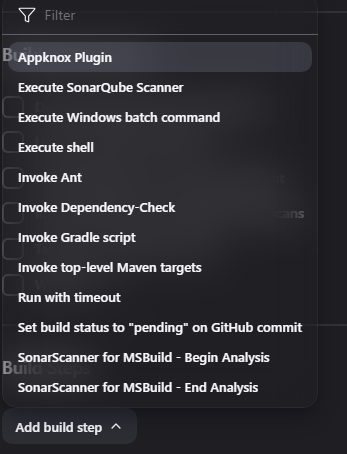
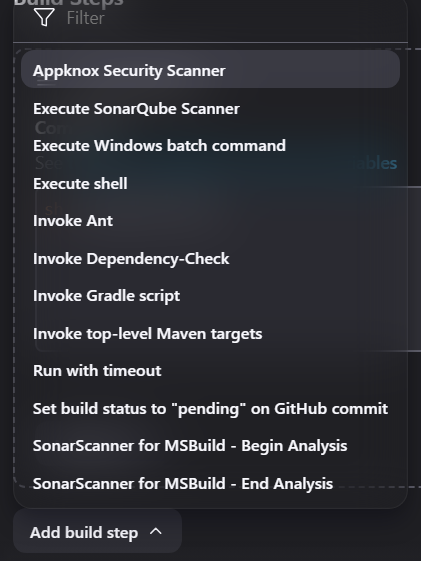
Update: refactor cicheck output and jelly file name

diff --git a/src/main/resources/io/jenkins/plugins/AppknoxPlugin/help-riskThreshold.html b/src/main/resources/io/jenkins/plugins/AppknoxPlugin/help-riskThreshold.html
@@ -1,0 +1,3 @@
+<div>
+    Select the risk threshold for the scan. Options are LOW, MEDIUM, HIGH, and CRITICAL.
+</div>

diff --git a/src/main/java/io/jenkins/plugins/AppknoxPlugin.java b/src/main/java/io/jenkins/plugins/AppknoxPlugin.java
@@ -60,6 +60,7 @@ public class AppknoxPlugin extends Builder implements SimpleBuildStep {
     private final String filePath;
     private final String riskThreshold;
     private static final String binaryVersion = "1.3.1";
+    private static final String osName = System.getProperty("os.name").toLowerCase();
     private static final String CLI_DOWNLOAD_PATH = System.getProperty("user.home") + File.separator + "appknox";
 
     @DataBoundConstructor
@@ -84,35 +85,44 @@ public class AppknoxPlugin extends Builder implements SimpleBuildStep {
     @Override
     public void perform(Run<?, ?> run, FilePath workspace, Launcher launcher, TaskListener listener)
             throws InterruptedException, IOException {
-        boolean success = executeAppknoxCommands(run, workspace, launcher, listener);
+        // report name will create a report in artifact with name specified
+        String reportName = "summary-report.csv";
+        boolean success = executeAppknoxCommands(run, workspace, reportName, launcher, listener);
 
         if (success) {
-            archiveArtifact(run, workspace, launcher, listener);
+            archiveArtifact(run, workspace, reportName, launcher, listener);
         } else {
             run.setResult(Result.FAILURE);
         }
     }
 
-    private boolean executeAppknoxCommands(Run<?, ?> run, FilePath workspace, Launcher launcher,
+    private boolean executeAppknoxCommands(Run<?, ?> run, FilePath workspace, String reportName, Launcher launcher,
             TaskListener listener) {
         try {
-            String os = System.getProperty("os.name").toLowerCase();
-            String appknoxPath = downloadAndInstallAppknox(os, listener);
-            String uploadOutput = uploadFile(appknoxPath, listener);
+            String accessToken = getAccessToken(listener);
+            if (accessToken == null) {
+                return false;
+            }
+
+            Map<String, String> env = new HashMap<>(System.getenv());
+            env.put("APPKNOX_ACCESS_TOKEN", accessToken);
+            
+            String appknoxPath = downloadAndInstallAppknox(osName, listener);
+            String uploadOutput = uploadFile(appknoxPath, listener, env);
             String fileID = extractFileID(uploadOutput, listener);
             if (fileID == null) {
                 return false;
             }
 
-            runCICheck(appknoxPath, run, fileID, listener);
+            runCICheck(appknoxPath, run, fileID, listener, env);
 
-            String reportOutput = createReport(appknoxPath, fileID, listener);
+            String reportOutput = createReport(appknoxPath, fileID, listener, env);
             String reportID = extractReportID(reportOutput, listener);
             if (reportID == null) {
                 return false;
             }
 
-            downloadReportSummaryCSV(appknoxPath, reportID, run, workspace, listener);
+            downloadReportSummaryCSV(appknoxPath, reportName, reportID, run, workspace, listener, env);
         } catch (Exception e) {
             listener.getLogger().println("Error executing Appknox commands: " + e.getMessage());
             return false;
@@ -203,47 +213,45 @@ public class AppknoxPlugin extends Builder implements SimpleBuildStep {
         String existingPath = System.getenv("PATH");
         String newPath = path + File.pathSeparator + existingPath;
         System.setProperty("PATH", newPath);
-        listener.getLogger().println("Updated PATH: " + newPath);
     }
 
-    private String uploadFile(String appknoxPath, TaskListener listener) throws IOException, InterruptedException {
+    private String uploadFile(String appknoxPath, TaskListener listener, Map<String, String> env) throws IOException, InterruptedException {
         String accessToken = getAccessToken(listener);
         if (accessToken == null) {
             return null;
         }
-
         List<String> command = new ArrayList<>();
         command.add(appknoxPath);
         command.add("upload");
         command.add(filePath);
-        command.add("--access-token");
-        command.add(accessToken);
-
+    
         ProcessBuilder pb = new ProcessBuilder(command);
+        pb.environment().putAll(env);
         pb.redirectErrorStream(true);
         Process process = pb.start();
-
+    
         try (BufferedReader reader = new BufferedReader(
                 new InputStreamReader(process.getInputStream(), StandardCharsets.UTF_8))) {
-            StringBuilder output = new StringBuilder();
             String line;
+            String lastLine = null;
             while ((line = reader.readLine()) != null) {
-                output.append(line).append("\n");
+                lastLine = line;
             }
-
-            listener.getLogger().println("Upload Output:");
-            listener.getLogger().println(output.toString());
-
-            if (process.exitValue() == 0) {
-                return output.toString().trim();
+    
+            if (lastLine != null) {
+                listener.getLogger().println("Upload Command Output :");
+                listener.getLogger().println("File ID = " + lastLine.trim());
+                return lastLine.trim();
             } else {
-                listener.getLogger().println("Upload failed.");
+                listener.getLogger().println("Upload failed: No output received.");
                 return null;
             }
+        } finally {
+            process.waitFor();
         }
     }
 
-    private boolean runCICheck(String appknoxPath, Run<?, ?> run, String fileID, TaskListener listener)
+    private boolean runCICheck(String appknoxPath, Run<?, ?> run, String fileID, TaskListener listener, Map<String, String> env)
             throws IOException, InterruptedException {
         String accessToken = getAccessToken(listener);
         if (accessToken == null) {
@@ -254,12 +262,11 @@ public class AppknoxPlugin extends Builder implements SimpleBuildStep {
         command.add(appknoxPath);
         command.add("cicheck");
         command.add(fileID);
-        command.add("--access-token");
-        command.add(accessToken);
         command.add("--risk-threshold");
         command.add(riskThreshold);
 
         ProcessBuilder pb = new ProcessBuilder(command);
+        pb.environment().putAll(env);
         pb.redirectErrorStream(true);
         Process process = pb.start();
 
@@ -271,8 +278,8 @@ public class AppknoxPlugin extends Builder implements SimpleBuildStep {
 
             while ((line = reader.readLine()) != null) {
                 if (!foundStarted) {
-                    // Skip lines until "Found" is encountered
-                    if (line.contains("Found")) {
+                    // Skip lines until "Found" or "No" is encountered
+                    if (line.contains("Found") || line.contains("No")) {
                         output.append(line).append("\n");
                         run.setDescription(output.toString() + "Check Console Output for more details.");
                         foundStarted = true;
@@ -284,17 +291,17 @@ public class AppknoxPlugin extends Builder implements SimpleBuildStep {
             }
 
             if (!foundStarted) {
-                listener.getLogger().println("No 'Found' line encountered in the output.");
+                listener.getLogger().println("No line with 'Found' or 'No' encountered in the output.");
                 return false;
             }
-            listener.getLogger().println("CICheck Output:");
+            listener.getLogger().println("Ci Check Output:");
             listener.getLogger().println(output.toString());
 
             return process.exitValue() == 0;
         }
     }
 
-    private String createReport(String appknoxPath, String fileID, TaskListener listener)
+    private String createReport(String appknoxPath, String fileID, TaskListener listener, Map<String, String> env)
             throws IOException, InterruptedException {
         String accessToken = getAccessToken(listener);
         if (accessToken == null) {
@@ -306,10 +313,9 @@ public class AppknoxPlugin extends Builder implements SimpleBuildStep {
         command.add("reports");
         command.add("create");
         command.add(fileID);
-        command.add("--access-token");
-        command.add(accessToken);
 
         ProcessBuilder pb = new ProcessBuilder(command);
+        pb.environment().putAll(env);
         pb.redirectErrorStream(true);
         Process process = pb.start();
 
@@ -321,9 +327,8 @@ public class AppknoxPlugin extends Builder implements SimpleBuildStep {
                 output.append(line).append("\n");
             }
         }
-
-        listener.getLogger().println("Report Output:");
-        listener.getLogger().println(output.toString());
+        listener.getLogger().println("Create Report Command Output :");
+        listener.getLogger().println("Report Id = " + output.toString());
 
         int exitValue = process.waitFor();
         if (exitValue == 0) {
@@ -334,8 +339,9 @@ public class AppknoxPlugin extends Builder implements SimpleBuildStep {
         }
     }
 
-    private void downloadReportSummaryCSV(String appknoxPath, String reportID, Run<?, ?> run, FilePath workspace,
-            TaskListener listener) throws IOException, InterruptedException {
+    private void downloadReportSummaryCSV(String appknoxPath, String reportName, String reportID, Run<?, ?> run,
+            FilePath workspace,
+            TaskListener listener, Map<String, String> env) throws IOException, InterruptedException {
         String accessToken = getAccessToken(listener);
         if (accessToken == null) {
             listener.error("Access token is null. Unable to download CSV report.");
@@ -348,27 +354,27 @@ public class AppknoxPlugin extends Builder implements SimpleBuildStep {
         command.add("download");
         command.add("summary-csv");
         command.add(reportID);
-        command.add("--access-token");
-        command.add(accessToken);
         command.add("--output");
-        command.add(workspace.child("summary-report.csv").getRemote());
+        command.add(workspace.child(reportName).getRemote());
 
         ProcessBuilder pb = new ProcessBuilder(command);
+        pb.environment().putAll(env);
         pb.redirectErrorStream(true);
         Process process = pb.start();
 
         int exitCode = process.waitFor();
         if (exitCode == 0) {
             listener.getLogger().println(
-                    "Summary report saved at:" + workspace.child("summary-report.csv").getRemote());
+                    "Summary report saved at:" + workspace.child(reportName).getRemote());
         } else {
             listener.getLogger().println("Download CSV failed. Exit code: " + exitCode);
         }
     }
 
-    private void archiveArtifact(Run<?, ?> run, FilePath workspace, Launcher launcher, TaskListener listener) {
+    private void archiveArtifact(Run<?, ?> run, FilePath workspace, String reportName, Launcher launcher,
+            TaskListener listener) {
         try {
-            FilePath artifactFile = workspace.child("summary-report.csv");
+            FilePath artifactFile = workspace.child(reportName);
 
             if (!artifactFile.exists()) {
                 listener.error("Artifact file does not exist: " + artifactFile.getRemote());
@@ -377,7 +383,7 @@ public class AppknoxPlugin extends Builder implements SimpleBuildStep {
 
             ArtifactManager artifactManager = run.getArtifactManager();
             Map<String, String> artifacts = new HashMap<>();
-            artifacts.put("summary-report.csv", artifactFile.getName());
+            artifacts.put(reportName, artifactFile.getName());
             artifactManager.archive(workspace, launcher, (BuildListener) listener, artifacts);
 
             listener.getLogger().println("Artifact archived: " + artifactFile.getRemote());
@@ -417,7 +423,7 @@ public class AppknoxPlugin extends Builder implements SimpleBuildStep {
 
         @Override
         public String getDisplayName() {
-            return "Appknox Security Scan Plugin";
+            return "Appknox Security Scanner";
         }
 
         @SuppressWarnings("deprecation")
